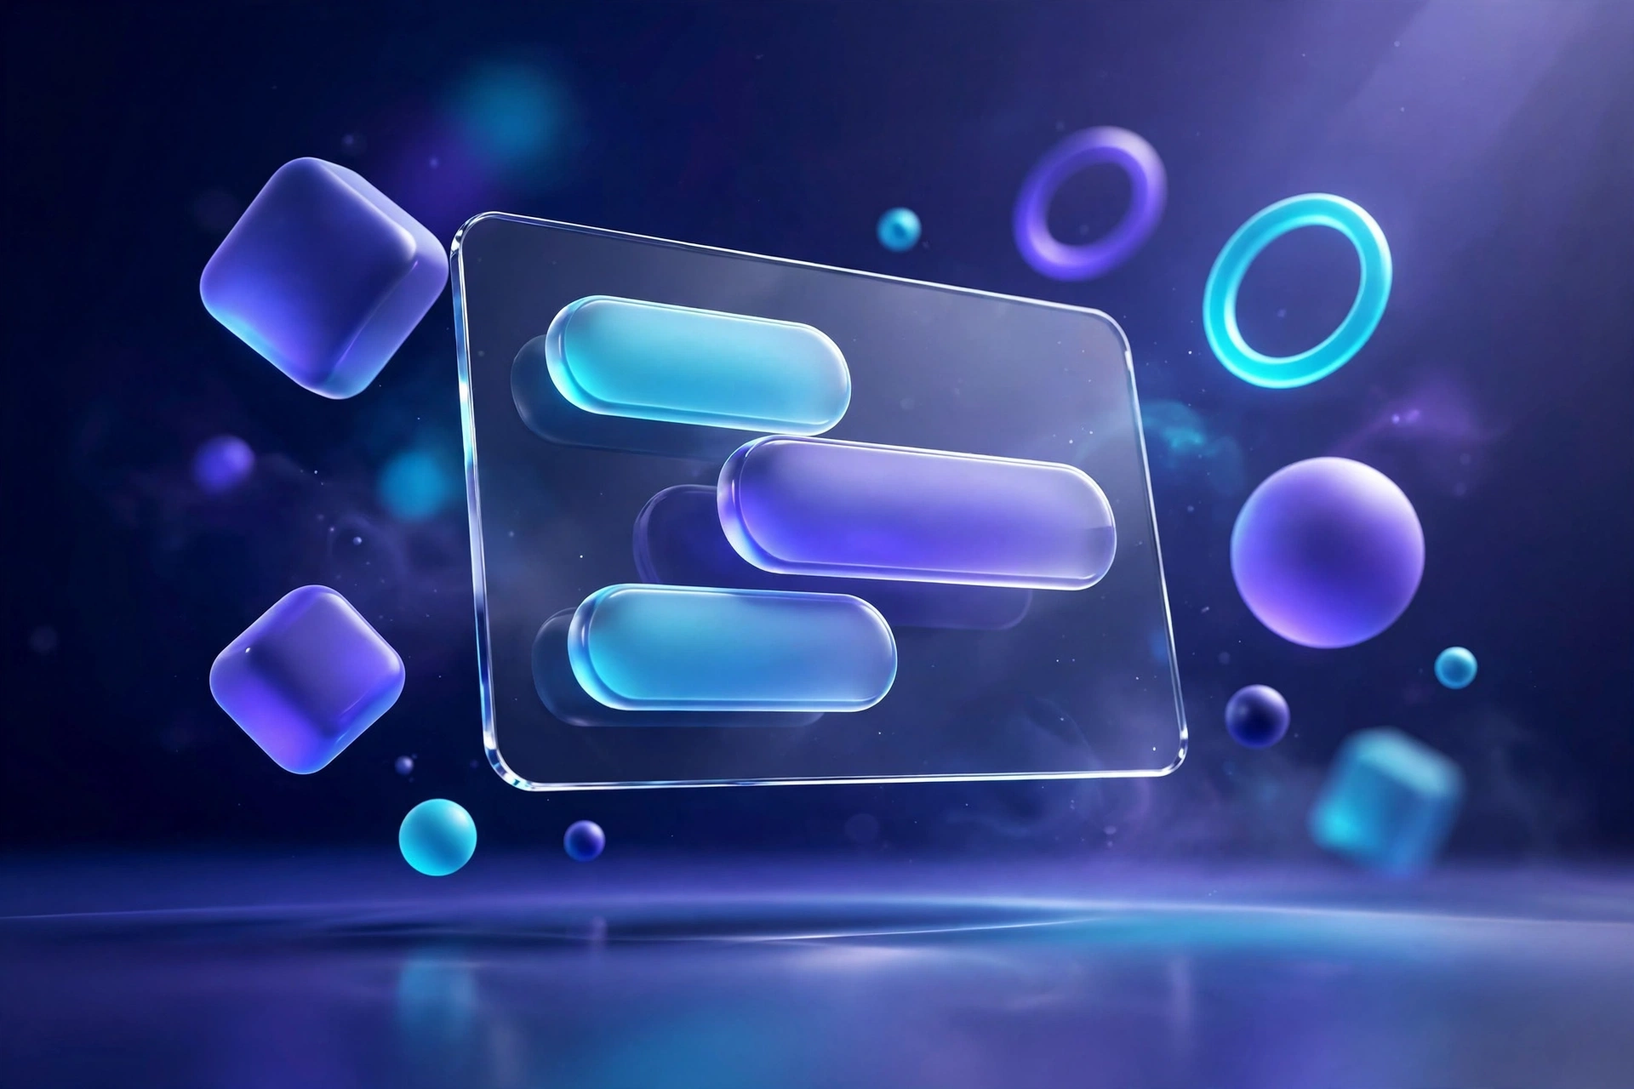
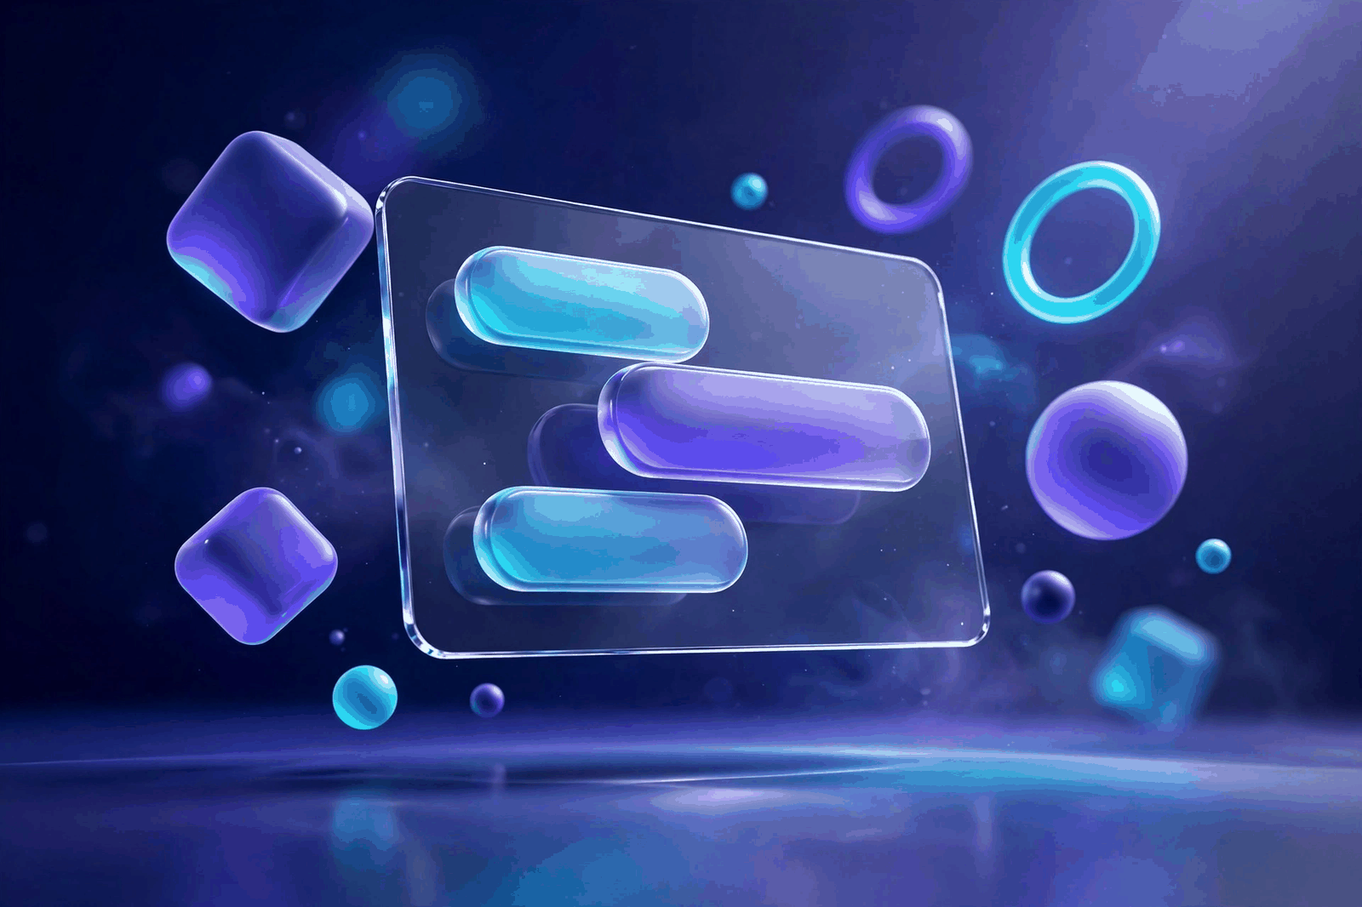
QA compliance pass: SEO domain, HTTPS redirect, image compression, legal refresh, contact anti-spam
- SEO: canonical/og/twitter/sitemap/robots/llms.txt now point at the real
  production URL https://bridgingfx.com/brixchat (brixchat.com 404s)
- .htaccess: force HTTPS (301) with X-Forwarded-Proto fallback
- Images: hero-chat.png 1.3M->262K, feat-copilot.png 790K->244K,
  og-share.png 1.6M->279K (all under 500KB)
- Privacy/Terms rewritten for the launched Laravel+MySQL backend
  (were stale 'local mode' copy); last-updated 2026-09-29
- Contact form: new public POST /api/contact (validation + honeypot +
  throttle:5,1), migration + schema.sql table, PhpBrixApi wiring so
  production messages reach the server instead of localStorage
- tsc clean, oxlint 0 errors, vite build green, php -l clean

diff --git a/src/pages/Privacy.tsx b/src/pages/Privacy.tsx
@@ -1,4 +1,4 @@
-// Brix Chat — privacy policy (original, local-first themed).
+// Brix Chat — privacy policy (production: Laravel + MySQL backend on our own hosting).
 
 import { Seo, jsonLdBreadcrumb } from '../lib/seo';
 import { PageHero } from '../components/marketing';
@@ -7,47 +7,53 @@ const SECTIONS: Array<{ h: string; body: string[] }> = [
   {
     h: 'The short version',
     body: [
-      'Brix Chat is local-first. In the current local mode, everything you put into the product — chats, contacts, tickets, settings, keys — is stored in your own browser\u2019s localStorage and never sent to us, because there is no server to send it to. When the backend phase launches, this policy will be updated before any data leaves your machine.',
+      'Brix Chat stores your workspace data — chats, contacts, tickets, settings — on our own servers (bridgingfx.com) so your team can work together in real time. We do not sell your data, we run no third-party advertising trackers on our marketing pages, and you can export or delete your workspace data at any time from the dashboard.',
     ],
   },
   {
-    h: 'What we store in local mode',
+    h: 'What we store',
     body: [
-      'Workspace data you create: websites, conversations and messages, contacts, tickets, knowledge-base articles, canned responses, triggers, campaigns, analytics derived from that data.',
-      'Access data: member names, roles, passcodes (stored in your browser so local login works), and session state.',
-      'Configuration and secrets you enter: widget settings, business hours, API keys, webhook secrets, third-party integration credentials. These are stored locally and displayed obfuscated.',
-      'None of this leaves your device in local mode. There is no analytics beacon, no tracking pixel, and no account system on our side to receive it.',
+      'Account data: your workspace name, member display names, roles, and passcodes. Passcodes are stored as salted hashes — we cannot read them.',
+      'Workspace data you create: websites (properties), conversations and messages, visitor details, contacts, tickets, knowledge-base articles, canned responses, triggers, flows, campaigns, and analytics derived from that data.',
+      'Configuration you enter: widget settings, business hours, API keys, webhook secrets, third-party integration credentials. Secrets are stored encrypted and displayed obfuscated.',
+      'Technical data: login sessions (strictly-necessary session cookies/tokens), audit logs of admin actions, and standard server logs (IP address, user agent) kept for security and debugging.',
     ],
   },
   {
     h: 'What we do not collect',
     body: [
-      'We do not run accounts, so we hold no emails or passwords for the marketing site. We do not use third-party trackers on brixchat.com pages. We do not sell data — there is no data of yours in our possession to sell.',
-    ],
-  },
-  {
-    h: 'Your visitors\u2019 data',
-    body: [
-      'When you embed the Brix Chat widget, visitor conversations are stored wherever your workspace data lives — today, in your browser. You are the data controller for your visitors\u2019 personal data. Our data-retention setting (Admin \u2192 Data) lets you auto-purge history older than N days, and export/delete run on demand.',
-      'If you enable integrations later (email, CRM, AI providers), visitor data will flow to those providers per their own policies and your configuration. Those flows are off by default and clearly badged as backend-phase.',
+      'We do not run third-party analytics, advertising pixels, or cross-site trackers on our marketing pages. We do not sell personal data. We do not use your workspace content to train models, and AI features only send data to a provider when you explicitly enable that integration.',
     ],
   },
   {
     h: 'Cookies',
     body: [
-      'The marketing site sets no tracking cookies. The product uses browser localStorage and sessionStorage for workspace data and login sessions — strictly functional, never advertising.',
+      'The marketing site sets no tracking cookies. The product uses strictly-necessary session storage: login tokens (and a session cookie on the API) that keep you signed in, plus browser localStorage for UI preferences and offline resilience. Nothing here is used for advertising.',
+    ],
+  },
+  {
+    h: 'Your visitors\u2019 data',
+    body: [
+      'When you embed the Brix Chat widget on your website, visitor conversations are stored in your workspace database on our servers. You are the data controller for your visitors\u2019 personal data: tell your visitors in your own privacy notice, and use the data-retention setting (Admin \u2192 Data) to auto-purge history older than N days. Export and deletion run on demand.',
+      'If you enable integrations (email, CRM, AI providers), visitor data flows to those providers per their own policies and your configuration. Those flows are off by default.',
     ],
   },
   {
     h: 'Data rights',
     body: [
-      'Because your data lives in your browser, you can exercise your rights directly: export everything (Admin \u2192 Data \u2192 Export), delete it (Reset workspace data), or clear site data in your browser settings. For backend-phase accounts, deletion and portability requests will be handled through the dashboard and support.',
+      'You can exercise your rights directly in the product: export everything (Admin \u2192 Data \u2192 Export), delete workspace data, or remove a member. For requests we must handle manually (for example, a message you sent through the contact form), contact us and we will respond within 30 days.',
+    ],
+  },
+  {
+    h: 'Security',
+    body: [
+      'Traffic is encrypted with TLS (HTTPS). Passcodes are salted-hashed, API keys are shown once at creation, and admin actions are audit-logged. No system is perfectly secure — use Export regularly for anything you cannot afford to lose.',
     ],
   },
   {
     h: 'Changes to this policy',
     body: [
-      'The backend phase is the one change that matters: before any customer data is stored on our servers, this page will describe exactly what is stored, where, for how long, and under which subprocessors — and the product will ask you to accept it. The “last updated” date below always reflects the current version.',
+      'We may update this policy as the product evolves. Material changes will be announced on the blog and, for logged-in workspaces, inside the product. The \u201clast updated\u201d date below always reflects the current version.',
     ],
   },
 ];
@@ -57,11 +63,11 @@ export default function Privacy() {
     <main>
       <Seo
         title="Privacy policy — Brix Chat"
-        description="Brix Chat's privacy policy: local-first storage, no trackers, what we store, your visitors' data, cookies, and your data rights."
+        description="Brix Chat's privacy policy: what we store on our own servers, cookies, your visitors' data, your data rights, and security."
         path="/privacy"
         jsonLd={jsonLdBreadcrumb([{ name: 'Home', path: '/' }, { name: 'Privacy policy', path: '/privacy' }])}
       />
-      <PageHero kicker="Legal" title="Privacy policy." sub="Last updated: September 23, 2026." />
+      <PageHero kicker="Legal" title="Privacy policy." sub="Last updated: September 29, 2026." />
 
       <div className="mx-auto max-w-3xl px-4 sm:px-6 py-16">
         {SECTIONS.map((s) => (

diff --git a/src/pages/Terms.tsx b/src/pages/Terms.tsx
@@ -7,7 +7,7 @@ const SECTIONS: Array<{ h: string; body: string[] }> = [
   {
     h: '1. What Brix Chat is',
     body: [
-      'Brix Chat (“the Service”) is a live-chat platform comprising an embeddable website widget, an agent dashboard, and an admin console. In the current local phase, the Service runs entirely in your browser; a backend phase will add server-side features later. These terms apply to the marketing site and the product together.',
+      'Brix Chat (“the Service”) is a live-chat platform comprising an embeddable website widget, an agent dashboard, and an admin console. Your workspace data is stored on our servers (bridgingfx.com) so your team can collaborate in real time. These terms apply to the marketing site and the product together.',
     ],
   },
   {
@@ -22,13 +22,13 @@ const SECTIONS: Array<{ h: string; body: string[] }> = [
     body: [
       'You are responsible for the content sent through your workspace — by your team and by your visitors — and for complying with the laws that apply to you (including privacy and marketing-consent laws in your jurisdiction).',
       'Do not use the Service for spam, phishing, fraud, harassment, or any unlawful purpose. Do not attempt to disrupt the Service or other users\u2019 workspaces. We may suspend workspaces used abusively, with notice where practical.',
-      'In local mode, your data lives in your browser: keep your device and passcodes secure. Treat invite passcodes like temporary passwords.',
+      'Your workspace data lives on our servers: keep your passcodes and API keys secure and treat invite passcodes like temporary passwords. You remain responsible for the content sent through your workspace — by your team and by your visitors — and for complying with the laws that apply to you (including privacy and marketing-consent laws in your jurisdiction).',
     ],
   },
   {
-    h: '4. Local phase: no warranties on persistence',
+    h: '4. Accounts: availability and your backups',
     body: [
-      'The local phase stores data in browser localStorage, which browsers can clear (private-mode exits, storage quotas, manual clears). Use Export regularly for anything you cannot afford to lose. The Service is provided “as is”, without warranties of any kind, to the maximum extent permitted by law.',
+      'We work to keep the Service available, but we do not guarantee uninterrupted uptime. Use Export regularly (Admin → Data → Export) for anything you cannot afford to lose. The Service is provided “as is”, without warranties of any kind, to the maximum extent permitted by law.',
     ],
   },
   {
@@ -47,7 +47,7 @@ const SECTIONS: Array<{ h: string; body: string[] }> = [
   {
     h: '7. Changes',
     body: [
-      'We may update these terms as the product evolves — most notably when the backend phase launches, which will add sections on accounts, billing, SLAs, and data processing. Material changes will be announced on the blog and, for logged-in workspaces, inside the product. Continued use after a change takes effect means you accept it.',
+      'We may update these terms as the product evolves — for example when paid add-ons launch, which will add sections on billing, SLAs, and data processing. Material changes will be announced on the blog and, for logged-in workspaces, inside the product. Continued use after a change takes effect means you accept it.',
     ],
   },
   {
@@ -63,11 +63,11 @@ export default function Terms() {
     <main>
       <Seo
         title="Terms of service — Brix Chat"
-        description="Brix Chat's terms of service: the free core, add-on billing, your responsibilities, local-phase data notes, IP, liability, and changes."
+        description="Brix Chat's terms of service: the free core, add-on billing, your responsibilities, accounts, IP, liability, and changes."
         path="/terms"
         jsonLd={jsonLdBreadcrumb([{ name: 'Home', path: '/' }, { name: 'Terms of service', path: '/terms' }])}
       />
-      <PageHero kicker="Legal" title="Terms of service." sub="Last updated: September 23, 2026." />
+      <PageHero kicker="Legal" title="Terms of service." sub="Last updated: September 29, 2026." />
 
       <div className="mx-auto max-w-3xl px-4 sm:px-6 py-16">
         {SECTIONS.map((s) => (

diff --git a/src/lib/api.ts b/src/lib/api.ts
@@ -2319,7 +2319,7 @@ export class BrixApi {
 
   // ---- contact form messages ----------------------------------------------------------
   contactMessages = {
-    create: async (input: { name: string; email: string; subject: string; message: string }): Promise<Envelope<ApiContactMessage>> => {
+    create: async (input: { name: string; email: string; subject: string; message: string; website?: string }): Promise<Envelope<ApiContactMessage>> => {
       if (!input.name.trim() || !input.message.trim()) throw new ApiError('validation', 'Name and message are required.', 422);
       if (!/^[^@\s]+@[^@\s]+\.[^@\s]+$/.test(input.email.trim())) throw new ApiError('validation', 'A valid email is required.', 422);
       const db = this.db();
@@ -3239,6 +3239,16 @@ const mapPhpNotification = (r: PhpRow): ApiNotification => ({
   title: r.title ?? '',
   body: r.body ?? '',
   link: r.link ?? null,
+  read: !!r.read,
+  created_at: isoOf(r.created_at),
+});
+
+const mapPhpContactMessage = (r: PhpRow): ApiContactMessage => ({
+  id: r.id,
+  name: r.name ?? '',
+  email: r.email ?? '',
+  subject: r.subject ?? 'Website contact',
+  message: r.message ?? '',
   read: !!r.read,
   created_at: isoOf(r.created_at),
 });
@@ -4437,6 +4447,20 @@ export class PhpBrixApi extends BrixApi {
           const { items, next_cursor } = await this.php().auditLog.list({ cursor: opts.cursor, limit: opts.limit });
           return { data: { items: items.map(mapPhpAudit), next_cursor } };
         }, () => base_auditLog.list(opts)),
+    };
+
+    // ---- public contact form --------------------------------------------------
+    // In production the contact page posts to the Laravel /contact endpoint
+    // (validated + honeypot + throttled server-side). Demo mode keeps the
+    // localStorage implementation.
+    const base_contactMessages = this.contactMessages;
+    this.contactMessages = {
+      ...base_contactMessages,
+      create: (input: { name: string; email: string; subject: string; message: string; website?: string }) =>
+        this.guardPhp(
+          async () => ({ data: mapPhpContactMessage(await this.php().contact.create(input)) }),
+          () => base_contactMessages.create(input),
+        ),
     };
   }
 

diff --git a/src/pages/Contact.tsx b/src/pages/Contact.tsx
@@ -15,6 +15,7 @@ export default function Contact() {
   const [email, setEmail] = useState('');
   const [subject, setSubject] = useState('General question');
   const [message, setMessage] = useState('');
+  const [website, setWebsite] = useState(''); // honeypot — humans never fill this
   const [busy, setBusy] = useState(false);
   const [error, setError] = useState('');
   const [sent, setSent] = useState(false);
@@ -25,7 +26,7 @@ export default function Contact() {
     setError('');
     try {
       const p2 = asP2(getApi(session?.workspaceId ?? 'demo', name || 'web'));
-      await p2.contactMessages.create({ name: name.trim(), email: email.trim(), subject, message: message.trim() });
+      await p2.contactMessages.create({ name: name.trim(), email: email.trim(), subject, message: message.trim(), website: website.trim() });
       setSent(true);
     } catch (err) {
       setError(err instanceof ApiError ? err.message : 'Something went wrong sending your message.');
@@ -86,6 +87,12 @@ export default function Contact() {
               <textarea id="ct-message" value={message} onChange={(e) => setMessage(e.target.value)} required rows={6}
                 placeholder="How can we help?"
                 className="w-full px-3.5 py-2.5 rounded-xl border border-slate-200 text-sm outline-none focus:ring-2 focus:ring-brix-500/40 focus:border-brix-500" />
+            </div>
+            {/* Honeypot: hidden from humans and assistive tech; bots that fill it are silently dropped server-side. */}
+            <div className="hidden" aria-hidden="true">
+              <label htmlFor="ct-website">Website</label>
+              <input id="ct-website" name="website" type="text" value={website} onChange={(e) => setWebsite(e.target.value)}
+                tabIndex={-1} autoComplete="off" />
             </div>
             {error && <p className="text-sm text-rose-600" role="alert">{error}</p>}
             <button type="submit" disabled={busy}

diff --git a/index.html b/index.html
@@ -11,13 +11,13 @@
     <meta name="keywords" content="live chat, chat widget, customer support, AI chatbot, helpdesk, website chat, brix chat" />
     <meta name="theme-color" content="#4f46e5" />
     <meta name="google-site-verification" content="" />
-    <link rel="canonical" href="https://brixchat.com/" />
+    <link rel="canonical" href="https://bridgingfx.com/brixchat/" />
     <meta property="og:type" content="website" />
     <meta property="og:site_name" content="Brix Chat" />
     <meta property="og:title" content="Brix Chat — Live Chat Widget, AI Copilot & Helpdesk for Modern Teams" />
     <meta property="og:description" content="Embeddable live-chat widget, real-time agent dashboard, AI copilot, smart triggers and analytics. Free core, unlimited agents." />
-    <meta property="og:image" content="https://brixchat.com/og-cover.png" />
-    <meta property="og:url" content="https://brixchat.com/" />
+    <meta property="og:image" content="https://bridgingfx.com/brixchat/og-cover.png" />
+    <meta property="og:url" content="https://bridgingfx.com/brixchat/" />
     <meta name="twitter:card" content="summary_large_image" />
     <meta name="twitter:title" content="Brix Chat — Live Chat Widget, AI Copilot & Helpdesk" />
     <meta name="twitter:description" content="The modern live-chat platform: widget, agent dashboard, AI copilot, triggers, analytics. Free core." />

diff --git a/src/lib/seo.ts b/src/lib/seo.ts
@@ -7,11 +7,11 @@
 import { useEffect } from 'react';
 
 /**
- * Canonical base for every page. The owner replaces this with the real
- * production domain before launch (e.g. https://brixchat.com). Everything
- * SEO-related (canonical links, og:url, sitemap.xml, llms.txt) derives from it.
+ * Canonical base for every page. The production deployment lives at
+ * https://bridgingfx.com/brixchat (cPanel). Everything SEO-related
+ * (canonical links, og:url, sitemap.xml, llms.txt) derives from it.
  */
-export const SEO_CANONICAL_BASE = 'https://brixchat.com';
+export const SEO_CANONICAL_BASE = 'https://bridgingfx.com/brixchat';
 
 const OG_IMAGE = `${SEO_CANONICAL_BASE}/og-cover.png`;
 

diff --git a/src/lib/php-client.ts b/src/lib/php-client.ts
@@ -395,6 +395,12 @@ export class PhpApiClient {
     me: (): Promise<{ member: PhpRow; workspace: PhpRow }> => this.getData('/auth/me'),
   };
 
+  // ---- public contact form (no auth; server validates + honeypot + throttle) --
+  contact = {
+    create: (input: { name: string; email: string; subject: string; message: string; website?: string }): Promise<PhpRow> =>
+      this.request<PhpRow>('/contact', { method: 'POST', auth: false, body: input }),
+  };
+
   // ---- workspaces ----------------------------------------------------------
   workspaces = {
     current: (): Promise<PhpRow> => this.getData('/workspaces/current'),

diff --git a/src/lib/contentSeed.ts b/src/lib/contentSeed.ts
@@ -1338,7 +1338,7 @@ export interface Phase2Api {
     delete(id: string): Promise<Envelope<void>>;
   };
   contactMessages: {
-    create(input: { name: string; email: string; subject: string; message: string }): Promise<Envelope<ApiContactMessage2>>;
+    create(input: { name: string; email: string; subject: string; message: string; website?: string }): Promise<Envelope<ApiContactMessage2>>;
     list(): Promise<Envelope<Page<ApiContactMessage2>>>;
     markRead(id: string): Promise<Envelope<ApiContactMessage2>>;
   };

diff --git a/api/app/Http/Controllers/ContactController.php b/api/app/Http/Controllers/ContactController.php
@@ -1,0 +1,68 @@
+<?php
+
+namespace App\Http\Controllers;
+
+use App\Http\Controllers\Controller;
+use App\Support\Api\Input;
+use App\Support\Api\Json;
+use App\Support\Api\Sql;
+use Illuminate\Http\JsonResponse;
+use Illuminate\Http\Request;
+
+/**
+ * Public contact form (marketing site). Server-side validation +
+ * honeypot ("website" must stay empty) + route-level throttle.
+ * Honeypot hits are silently accepted so bots learn nothing.
+ */
+class ContactController extends Controller
+{
+    public function store(Request $request): JsonResponse
+    {
+        $b = Input::body($request);
+
+        // Honeypot: real users never fill this (hidden field). Silently
+        // accept so automated submitters get no signal.
+        if (isset($b['website']) && trim((string) $b['website']) !== '') {
+            return Json::ok(['id' => null, 'received' => true]);
+        }
+
+        $name = Input::str(Input::required($b, 'name'), 'name', 120);
+        if (mb_strlen($name) < 2) {
+            Json::fail('validation', 'name must be at least 2 characters', 422);
+        }
+        $email = Input::email(Input::required($b, 'email'), 'email');
+        $subject = isset($b['subject']) ? Input::str($b['subject'], 'subject', 190) : '';
+        if ($subject === '') {
+            $subject = 'Website contact';
+        }
+        $message = Input::str(Input::required($b, 'message'), 'message', 10000);
+        if (mb_strlen($message) < 10) {
+            Json::fail('validation', 'message must be at least 10 characters', 422);
+        }
+
+        $id = Sql::uuid();
+        Sql::run(
+            'INSERT INTO contact_messages (id, name, email, subject, message, ip, user_agent, created_at)
+             VALUES (?, ?, ?, ?, ?, ?, ?, UTC_TIMESTAMP())',
+            [
+                $id,
+                $name,
+                $email,
+                $subject,
+                $message,
+                substr((string) $request->ip(), 0, 45),
+                substr((string) $request->userAgent(), 0, 512),
+            ]
+        );
+
+        return Json::ok([
+            'id' => $id,
+            'name' => $name,
+            'email' => $email,
+            'subject' => $subject,
+            'message' => $message,
+            'read' => false,
+            'created_at' => Json::now(),
+        ], 201);
+    }
+}

diff --git a/api/database/migrations/2026_09_29_000000_create_contact_messages_table.php b/api/database/migrations/2026_09_29_000000_create_contact_messages_table.php
@@ -1,0 +1,34 @@
+<?php
+
+use Illuminate\Database\Migrations\Migration;
+use Illuminate\Database\Schema\Blueprint;
+use Illuminate\Support\Facades\Schema;
+
+/**
+ * Public contact-form inbox. Messages land here from the marketing site's
+ * contact page (POST /api/contact, throttled + honeypot-checked). The
+ * platform admin console reads them; no workspace scoping — these are
+ * pre-account inquiries to the Brix Chat team itself.
+ */
+return new class extends Migration
+{
+    public function up(): void
+    {
+        Schema::create('contact_messages', function (Blueprint $table) {
+            $table->char('id', 36)->primary();
+            $table->string('name', 120);
+            $table->string('email', 190);
+            $table->string('subject', 190)->default('Website contact');
+            $table->text('message');
+            $table->string('ip', 45)->nullable();
+            $table->string('user_agent', 512)->nullable();
+            $table->boolean('read')->default(false);
+            $table->timestamp('created_at')->useCurrent();
+        });
+    }
+
+    public function down(): void
+    {
+        Schema::dropIfExists('contact_messages');
+    }
+};

diff --git a/api/routes/api.php b/api/routes/api.php
@@ -2,6 +2,7 @@
 
 use App\Http\Controllers\Admin;
 use App\Http\Controllers\AuthController;
+use App\Http\Controllers\ContactController;
 use App\Http\Controllers\Workspace;
 use Illuminate\Support\Facades\Route;
 
@@ -54,6 +55,9 @@ foreach ($paths('invites', 'member-invites') as $p) {
     Route::post("$p/accept", [Workspace\InviteController::class, 'accept'])->middleware('throttle:20,1');
 }
 Route::get('ai/copilot', [Workspace\AssistController::class, 'copilotInfo']);
+
+// Public contact form: server-side validation + honeypot + throttle.
+Route::post('contact', [ContactController::class, 'store'])->middleware('throttle:5,1');
 
 Route::middleware('member')->group(function () use ($paths) {
     Route::controller(Workspace\WorkspaceController::class)->group(function () {
